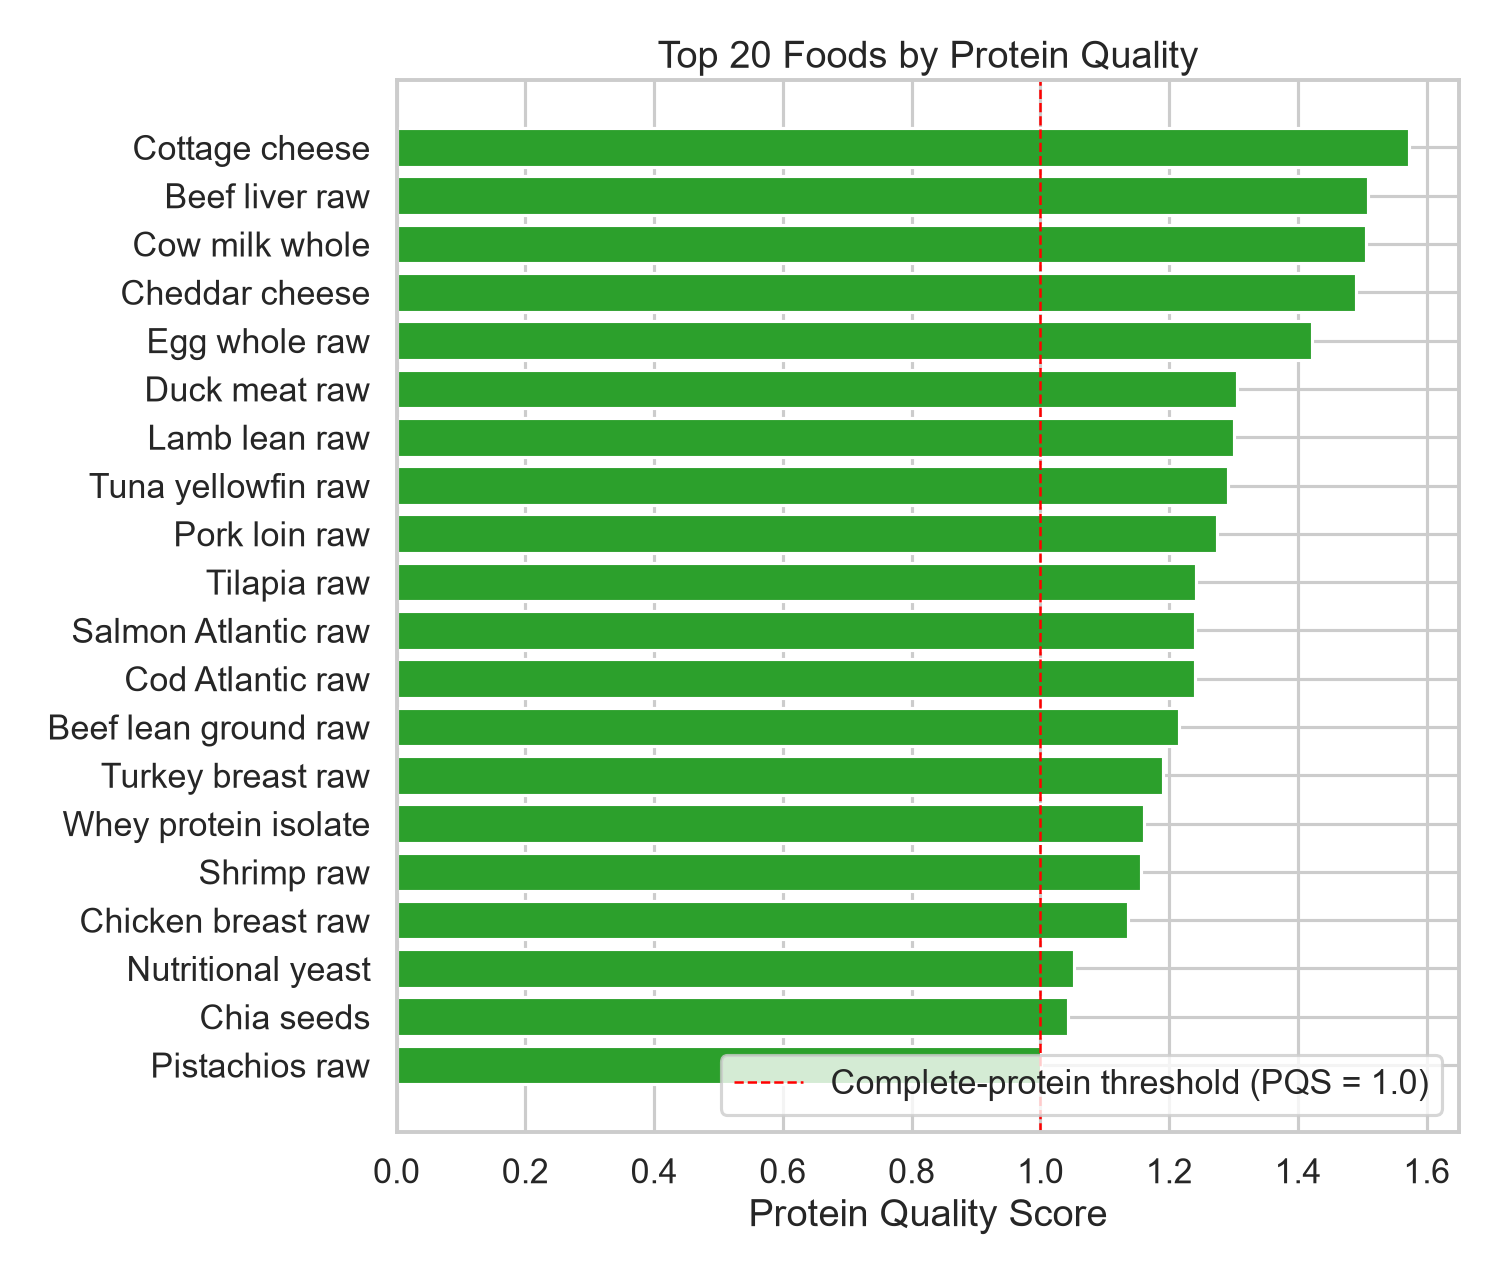
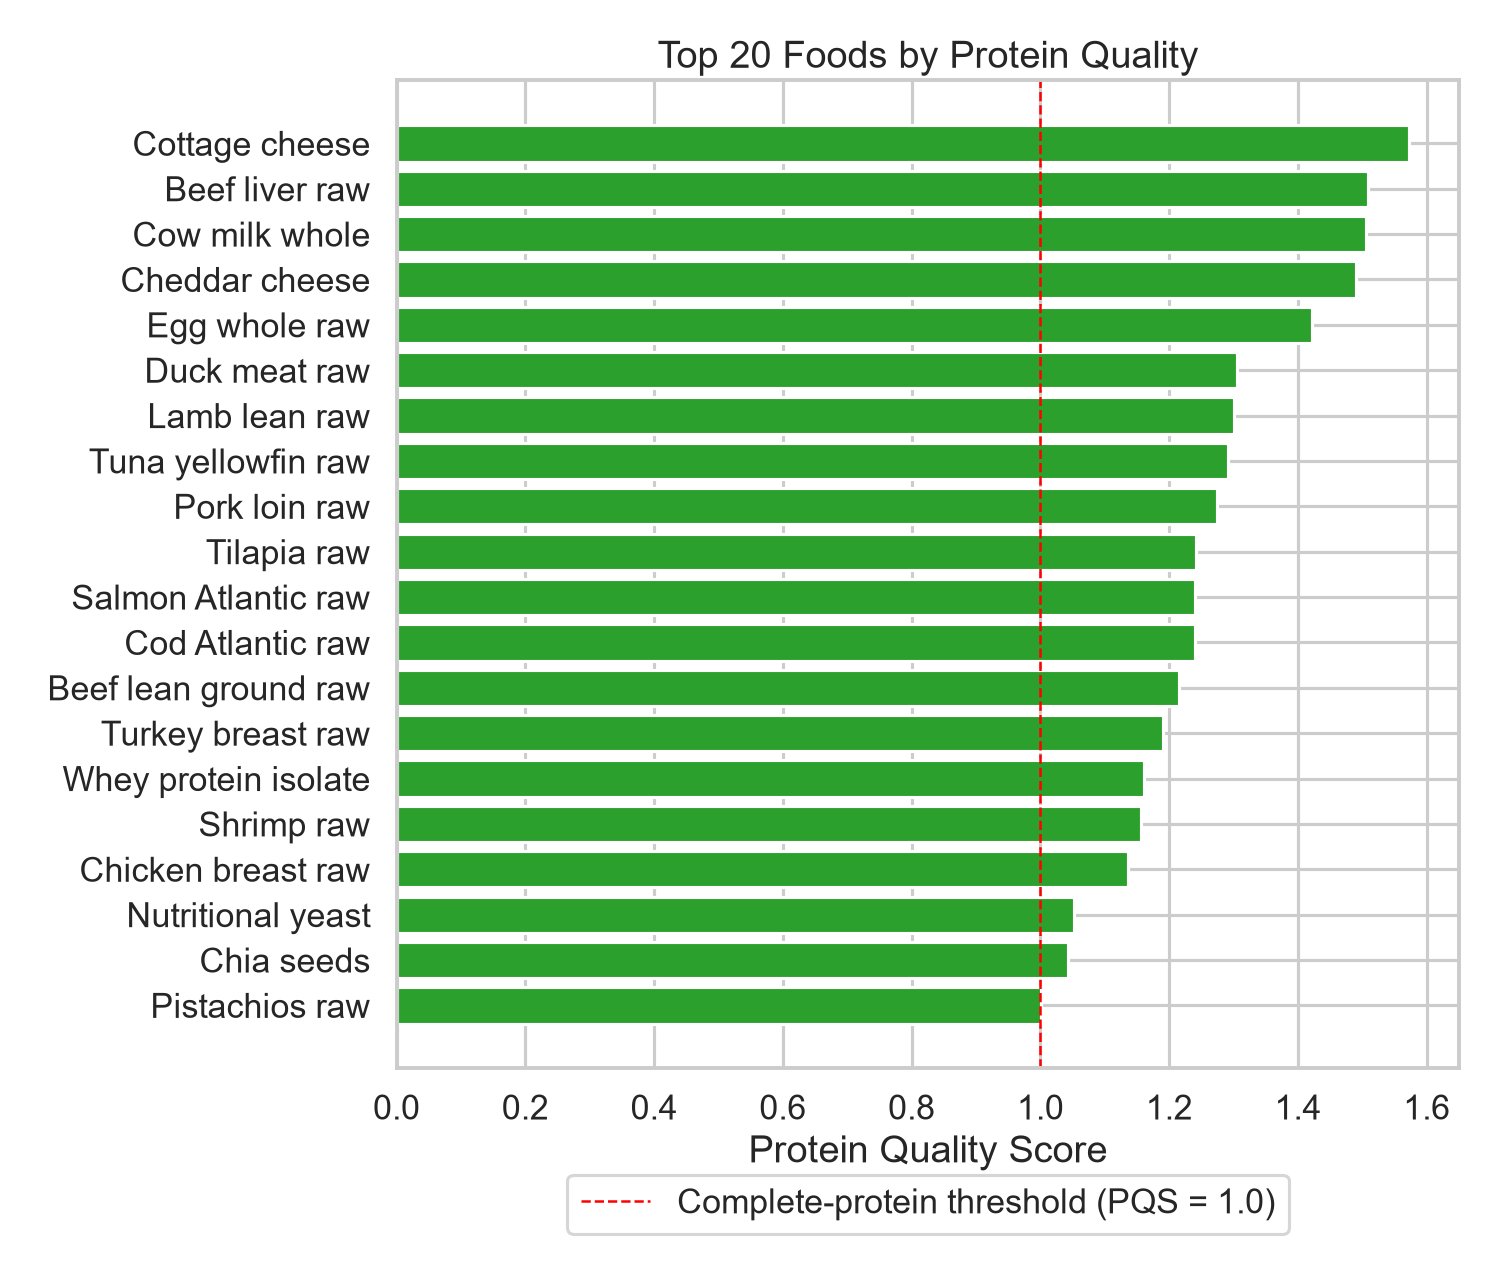
Move the ranking chart legend below the axes so it no longer covers the last bar

Changed region(s): [[0.0307, 0.0918, 0.9813, 0.9788]]

diff --git a/src/visualize.py b/src/visualize.py
@@ -39,7 +39,7 @@ def plot_top_ranking(df, top_n=20, out_dir=FIGURES_DIR):
                label="Complete-protein threshold (PQS = 1.0)")
     ax.set_xlabel("Protein Quality Score")
     ax.set_title(f"Top {top_n} Foods by Protein Quality")
-    ax.legend(loc="lower right")
+    ax.legend(loc="upper center", bbox_to_anchor=(0.5, -0.09))
     plt.tight_layout()
     path = out_dir / "protein_quality_ranking.png"
     fig.savefig(path, dpi=150)
